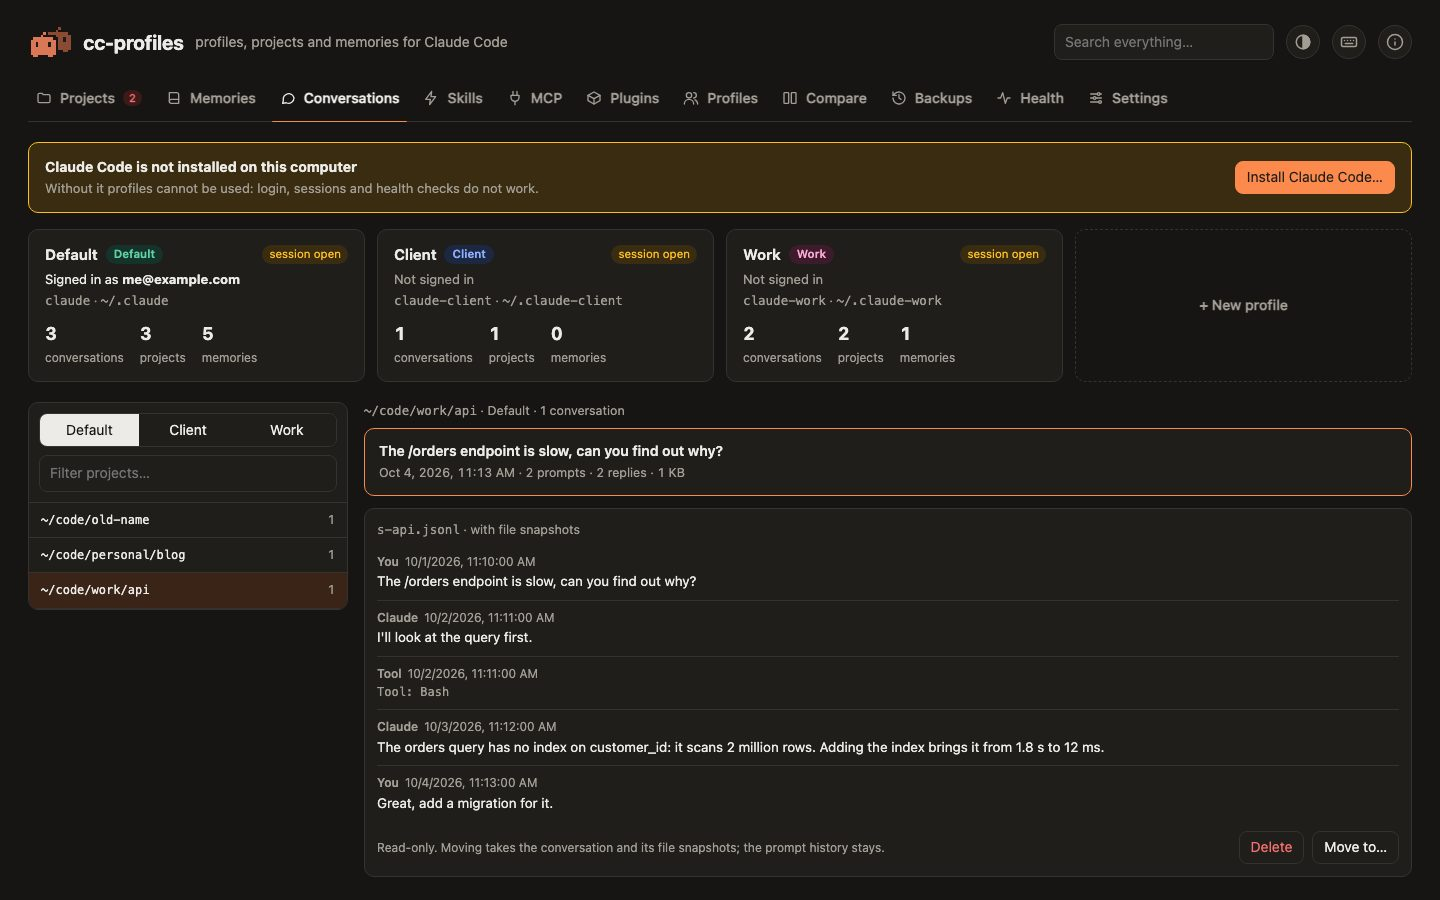
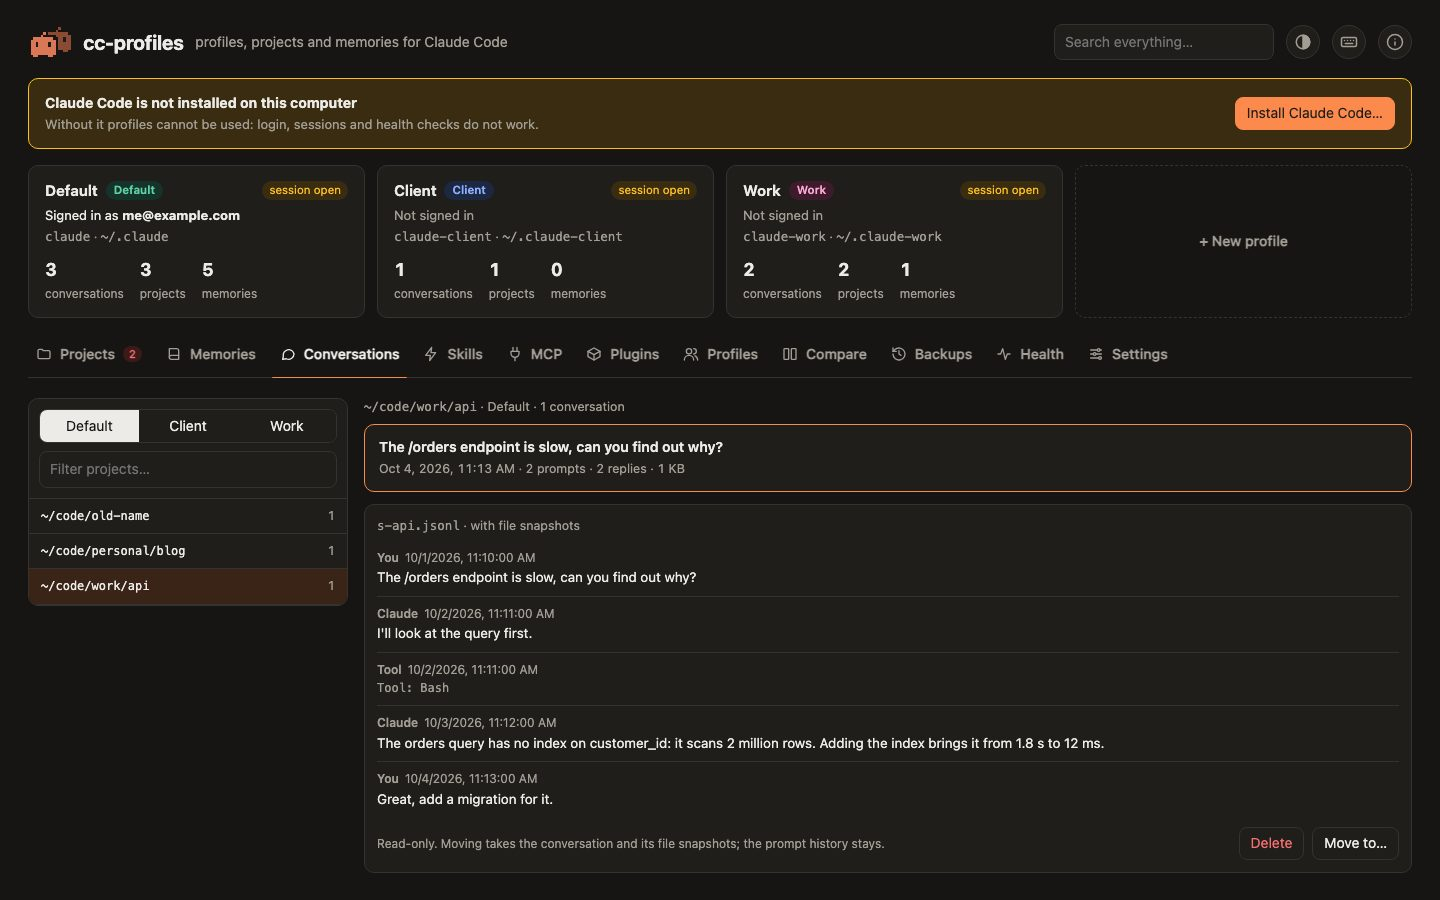
Put the profile cards above the tabs

diff --git a/src/cc_profiles/static/index.html b/src/cc_profiles/static/index.html
@@ -86,9 +86,9 @@ mark { background: var(--accent-soft); color: inherit; border-radius: 3px; paddi
 .live { font-size: 11.5px; color: var(--warn); background: var(--warn-soft); padding: 1px 7px; border-radius: 99px; margin-left: auto; }
 code, .mono { font-family: var(--mono); font-size: 12.5px; }
 
-/* navigation: an underline nav like GitHub's, right under the header. Tabs that do not
+/* navigation: an underline nav like GitHub's, under the profile cards. Tabs that do not
    fit the window move into the More menu; the active tab always stays in the row. */
-nav.tabs { display: flex; align-items: center; gap: 8px; box-shadow: inset 0 -1px 0 var(--line); margin: -4px 0 20px; }
+nav.tabs { display: flex; align-items: center; gap: 8px; box-shadow: inset 0 -1px 0 var(--line); margin: -8px 0 20px; }
 .tabrow { display: flex; gap: 8px; min-width: 0; overflow: hidden; }
 nav.tabs button[data-tab], #tabs-more { position: relative; display: flex; align-items: center; gap: 8px; height: 32px; margin: 8px 0;
   padding: 0 8px; background: none; border: 0; border-radius: 6px; cursor: pointer; color: var(--muted); font-weight: 550; white-space: nowrap; }
@@ -331,6 +331,8 @@ pre.log { background: #141311; color: #e8e6e1; border-radius: 8px; padding: 12px
     <button class="iconbtn" id="about-btn" title="About Claude Code on this computer" aria-label="About Claude Code on this computer">
       <svg viewBox="0 0 24 24" fill="none" stroke="currentColor" stroke-width="2" stroke-linecap="round" stroke-linejoin="round" aria-hidden="true"><circle cx="12" cy="12" r="10"/><path d="M12 16v-4"/><path d="M12 8h.01"/></svg>
     </button></header>
+  <div id="notice"></div>
+  <section class="profiles" id="profiles" aria-label="Profiles"></section>
   <nav class="tabs" id="tabs" aria-label="Sections">
     <div class="tabrow">
       <button data-tab="projects" class="on" aria-current="page"><svg class="ti" viewBox="0 0 24 24" fill="none" stroke="currentColor" stroke-width="2" stroke-linecap="round" stroke-linejoin="round" aria-hidden="true"><path d="M3 7a2 2 0 0 1 2-2h4l2 2h8a2 2 0 0 1 2 2v8a2 2 0 0 1-2 2H5a2 2 0 0 1-2-2z"/></svg><span class="tl">Projects</span><span class="count" id="cnt-projects" hidden></span></button>
@@ -350,8 +352,6 @@ pre.log { background: #141311; color: #e8e6e1; border-radius: 8px; padding: 12px
       <div class="moremenu" id="moremenu" hidden></div>
     </div>
   </nav>
-  <div id="notice"></div>
-  <section class="profiles" id="profiles" aria-label="Profiles"></section>
   <main id="main"></main>
 </div>
 <div class="toasts" id="toasts"></div>

diff --git a/DESIGN.md b/DESIGN.md
@@ -56,7 +56,7 @@ Rules:
 | Component | Class | Notes |
 |---|---|---|
 | Profile card | `.pcard` | name and badge, monospace meta line, three big numbers; `.live` for "session open". `.pcard.add` is the dashed "+ New profile" variant |
-| Navigation | `nav.tabs#tabs` > `.tabrow`, `.more` | an underline nav like GitHub's, right under the header: each tab is a 16px stroke icon (`.ti`) plus its name, muted until hovered (a `--panel-2` rounded background) or active (full text color and a 2px orange underline on the nav's bottom line). Tabs that do not fit move, in order, into the **More** menu (`#moremenu`); the active tab always stays in the row, More is underlined when the active tab is in it, and a red dot marks it when a tab inside has a counter. Tab buttons keep `data-tab` and get `aria-current="page"` when active; a red `.count` shows the number of problems |
+| Navigation | `nav.tabs#tabs` > `.tabrow`, `.more` | an underline nav like GitHub's, under the profile cards: each tab is a 16px stroke icon (`.ti`) plus its name, muted until hovered (a `--panel-2` rounded background) or active (full text color and a 2px orange underline on the nav's bottom line). Tabs that do not fit move, in order, into the **More** menu (`#moremenu`); the active tab always stays in the row, More is underlined when the active tab is in it, and a red dot marks it when a tab inside has a counter. Tab buttons keep `data-tab` and get `aria-current="page"` when active; a red `.count` shows the number of problems |
 | Keyboard shortcuts | `#keys-btn`, `showKeys()` | `/` search, `g` + letter for a tab, `?` the list in a modal. Ignored while typing in a field or with a modal, drawer or popover open. The header button is hidden on touch screens (`hover: none`) |
 | Filters | `.chip` / `.chip.on` | the active chip is inverted (background `--text`) |
 | Buttons | `.btn` | `.primary` (orange, at most one per row or modal), `.danger` (red text), `.small` |

diff --git a/CHANGELOG.md b/CHANGELOG.md
@@ -9,7 +9,7 @@ The format follows [Keep a Changelog](https://keepachangelog.com/en/1.1.0/), and
 - `cc-profiles restart` stops the server running in the background and starts it again, for example after an update; `cc-profiles stop` only stops it. A write in progress finishes first, and only cc-profiles is ever stopped: every response now carries the server's pid.
 
 ### Changed
-- The tabs are a single row under the header again, styled like GitHub's: an icon before each name, an orange underline on the active one. The sidebar and the group switcher of 0.4.0 are gone: on a narrow window the tabs that do not fit go into a **More** menu, and the active tab always stays in view.
+- The tabs are a single row again, under the profile cards, styled like GitHub's: an icon before each name, an orange underline on the active one. The sidebar and the group switcher of 0.4.0 are gone: on a narrow window the tabs that do not fit go into a **More** menu, and the active tab always stays in view.
 
 ### Fixed
 - The favicon now shows in Safari, which ignores the inline SVG one: the server also sends it as PNG, `/favicon.ico` and `apple-touch-icon.png`, drawn from the same pixel mascot.

diff --git a/docs/getting-started.md b/docs/getting-started.md
@@ -92,7 +92,7 @@ Each new profile must log in once: run its command and use `/login`. Credentials
 
 ## Finding your way
 
-The tabs sit in one row under the header. On a narrow window the ones that do not fit are in the **More** menu at the end of the row.
+The tabs sit in one row under the profile cards. On a narrow window the ones that do not fit are in the **More** menu at the end of the row.
 
 ### Keyboard shortcuts
 
